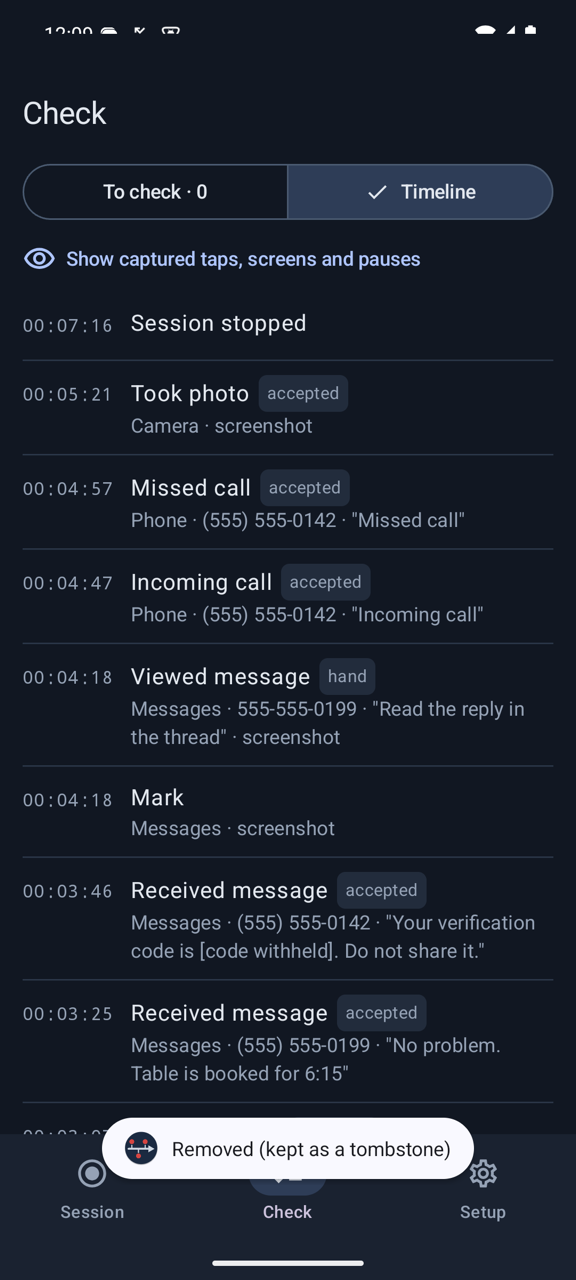
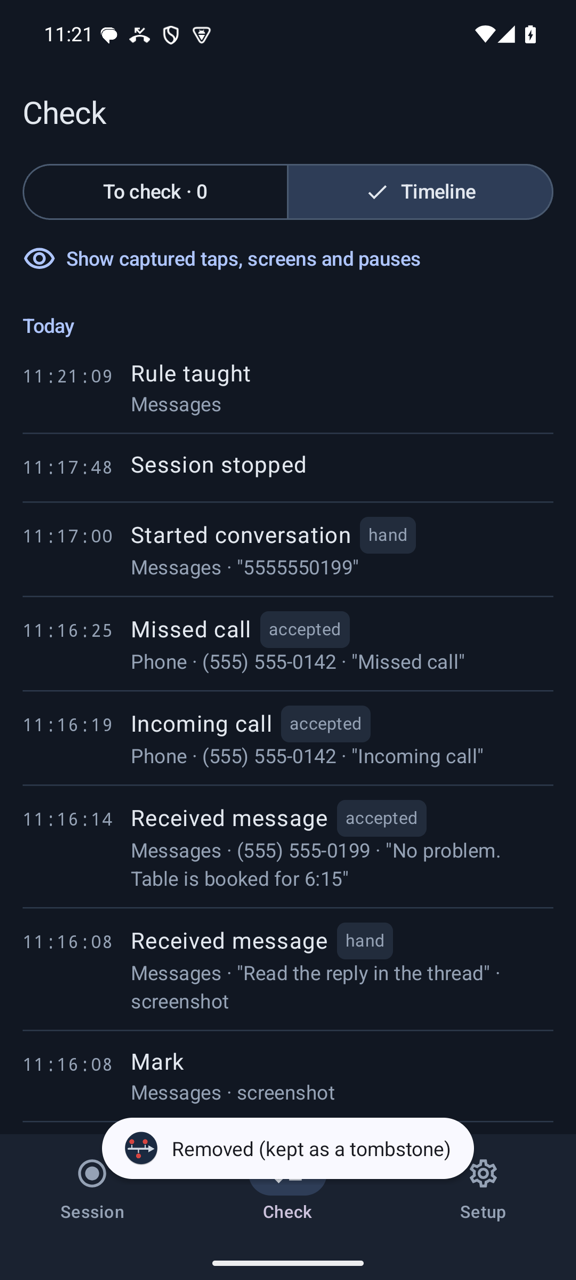
Retake the screenshots that still showed older screens
Seven manual pictures (the Change sheet, the Timeline three ways, the
two teach-a-rule steps and the export result) and the two store
screenshots copied from them now show the current app: day headers, the
App field, To and From, and the remembered export folder. Taken on the
Android 15 emulator from a fresh demo session.

diff --git a/docs/USER_MANUAL.md b/docs/USER_MANUAL.md
@@ -10,7 +10,7 @@ Author: Alexis Brignoni.
 
 This manual describes KDL 0.3.2, the v0.3.2 release on GitHub. Every screenshot comes from an
 Android 15 emulator (Google APIs image, API 35, 1080 x 2400, no Play Store) running a debug build of
-0.3.0 or of the code that became 0.3.1 or 0.3.2, with made-up test data: the
+0.3.0 or of the code that became a later release, with made-up test data: the
 phone numbers are 555 numbers and the scenario is called `msg-demo-01`. The emulator's time zone
 was America/New_York (UTC-05:00), so the times you see are local to that zone.
 
@@ -457,7 +457,7 @@ screenshot of this section here.
 
 | Timeline | With captured events |
 |---|---|
-| ![Timeline](manual/timeline.png) | ![Timeline showing taps, screens and typed text](manual/timeline-captured-events.png) |
+| ![Timeline](manual/timeline.png) | ![Timeline showing screens, typed text, a cleared field and a notification](manual/timeline-captured-events.png) |
 
 The Timeline lists every current entry, newest first, with the time to the second. The time shown
 is local to the time zone recorded with the entry. Tags after the action say where it came from:
